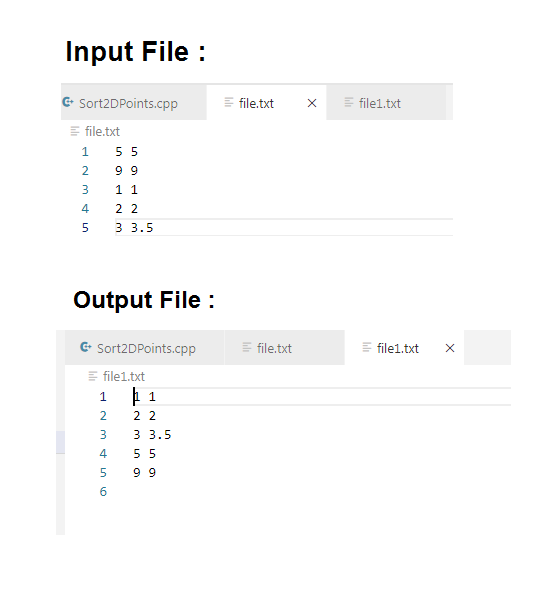
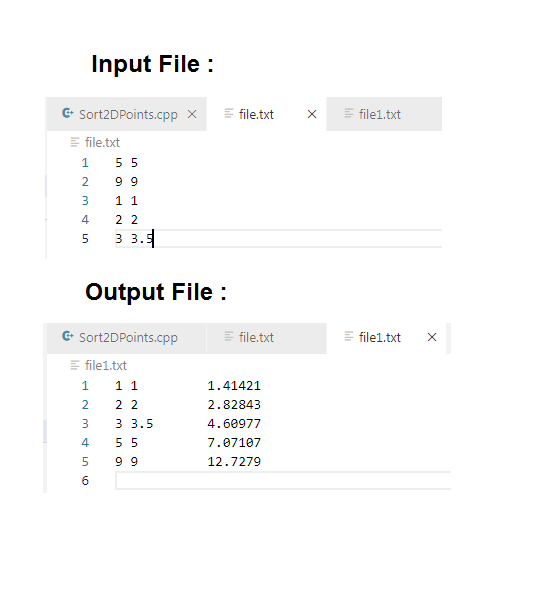
--

diff --git a/Sort 2D Points/Sort2DPoints.cpp b/Sort 2D Points/Sort2DPoints.cpp
@@ -35,7 +35,7 @@ int main(){
     //sort the data using vector
     vector< pair <float,float> > vect;
     for (int m = 0; m < count; m++){
-        vect.push_back(make_pair(sqrt((ar[m][0]+ar[m][1])),m));
+        vect.push_back(make_pair(sqrt(((ar[m][0]*ar[m][0])+(ar[m][1]*ar[m][1]))),m));
     }
     sort(vect.begin(),vect.end());
 
@@ -51,6 +51,7 @@ int main(){
         for (int j=0; j<2; j++){
             OFile << ar[(int)vect[i].second][j] << " ";
         }
+        OFile<<"\t\t"<<vect[i].first;
         OFile<<endl;
     }
     return 0;
